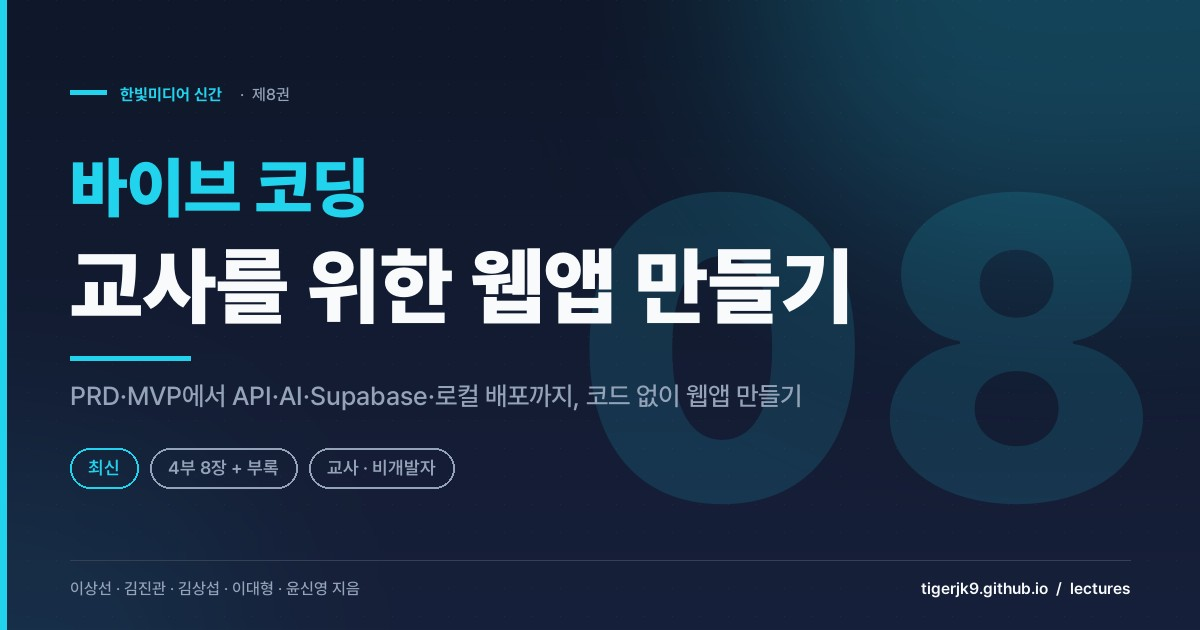
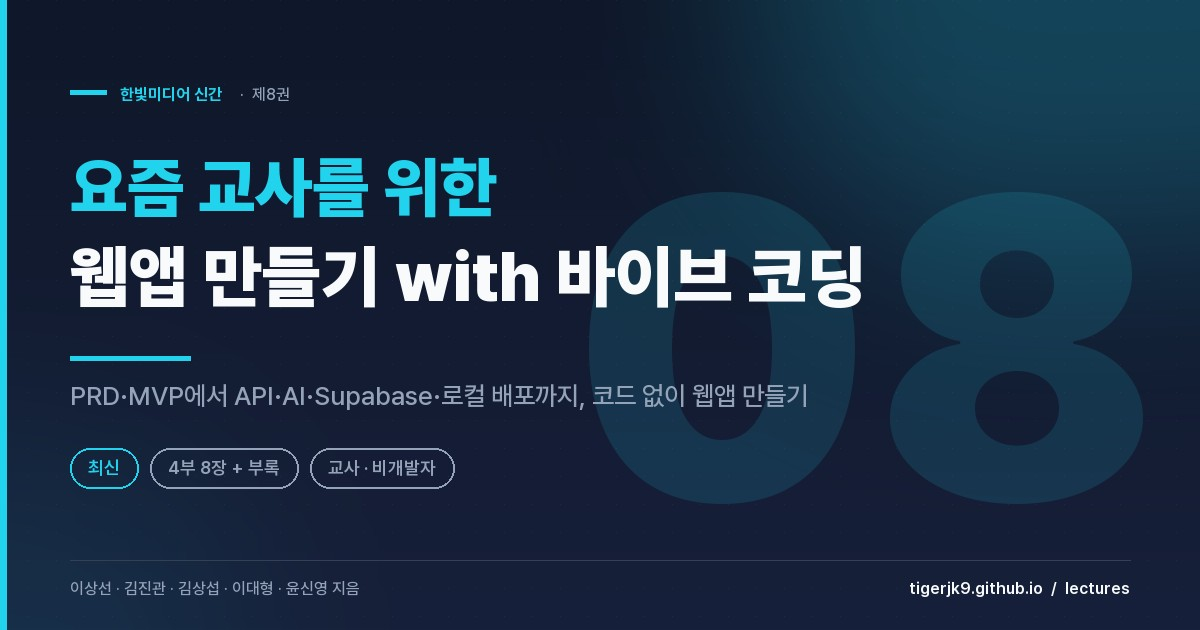
chore(자료실): 8권 확정 서명 반영(요즘 교사를 위한 웹앱 만들기 with 바이브 코딩)
- books.yml·정리본 페이지 제목·CLAUDE.md에서 가제 표기 제거
- 표지 재생성(title_lines 2행 재분할), gen_book_covers.py 폰트 로더 otf/ttf 폴백

Claude-Session: https://claude.ai/code/session_0119HxNwzPvmkNH57gn9no1e

diff --git a/scripts/gen_book_covers.py b/scripts/gen_book_covers.py
@@ -39,7 +39,7 @@ BOOKS = [
         "accent": (34, 211, 238),   # cyan-400
         "eyebrow": "한빛미디어 신간",
         "footer": "이상선 · 김진관 · 김상섭 · 이대형 · 윤신영 지음",
-        "title_lines": ["바이브 코딩", "교사를 위한 웹앱 만들기"],
+        "title_lines": ["요즘 교사를 위한", "웹앱 만들기 with 바이브 코딩"],
         "subtitle": "PRD·MVP에서 API·AI·Supabase·로컬 배포까지, 코드 없이 웹앱 만들기",
         "chips": ["4부 8장 + 부록", "교사 · 비개발자"],
         "status": "최신",
@@ -111,7 +111,11 @@ BOOKS = [
 
 
 def font(weight: str, size: int) -> ImageFont.FreeTypeFont:
-    return ImageFont.truetype(str(FONT_DIR / f"Pretendard-{weight}.otf"), size)
+    for ext in ("otf", "ttf"):
+        path = FONT_DIR / f"Pretendard-{weight}.{ext}"
+        if path.exists():
+            return ImageFont.truetype(str(path), size)
+    raise FileNotFoundError(f"Pretendard-{weight}.(otf|ttf) not found in {FONT_DIR}")
 
 
 def text_width(d: ImageDraw.ImageDraw, s: str, f: ImageFont.FreeTypeFont) -> int:

diff --git a/CLAUDE.md b/CLAUDE.md
@@ -711,7 +711,7 @@ git fetch origin && git rebase origin/main --autostash && git push origin main
 
 **도서 원고 섹션 (2026-07-07, 8권 갱신 2026-07-21)** — `/lectures/` 허브는 "워크숍 강의"(`_data/lectures.yml`) + "도서 원고"(`_data/books.yml`) 2섹션 구성.
 - 도서 1~7권은 `tigerjk9/Book-Publisher`(비공개 레포) 완성 원고 — 전부 라이브 Vercel 웹 도서로 새 탭 연결(웹 도서가 단일 진실 소스, 원고 개정 시 Vercel만 재배포하면 블로그는 무수정. 1권은 teacher-claude-guide.vercel.app — 최초 편입 때 배포 없는 줄 알고 블로그 내 전문 렌더링했다가 사용자가 URL 확인해 줘 제거).
-- **8권(2026-07-21)은 한빛미디어 신간(바이브 코딩, 교사를 위한 웹앱 만들기 · 가제 · 이상선·김진관·김상섭·이대형·윤신영 공저)으로 유일하게 블로그 내부 큐레이션 정리본(`_lectures/vibecode-for-teacher/`)에 연결** — 조판원고 전체 대신 목차·파트별 요약·실습 표·컴패니언 GitHub(lifeofpi-ux/vibecode-for-teacher)만.
+- **8권(2026-07-21)은 한빛미디어 신간(요즘 교사를 위한 웹앱 만들기 with 바이브 코딩 · 서명 확정 2026-08-24 · 이상선·김진관·김상섭·이대형·윤신영 공저)으로 유일하게 블로그 내부 큐레이션 정리본(`_lectures/vibecode-for-teacher/`)에 연결** — 조판원고 전체 대신 목차·파트별 요약·실습 표·컴패니언 GitHub(lifeofpi-ux/vibecode-for-teacher)만.
 - 통일 표지 재생성: `py scripts/gen_book_covers.py [볼륨…]` (인자 없으면 전체, `7 8`처럼 특정 권만 재생성 — 기존 01~06 무변경 유지용. 8권은 per-book `eyebrow`/`footer` 오버라이드로 닷커넥터 대신 한빛미디어 브랜딩. `.fonts/` Pretendard 필요, 출력 `assets/lectures/books/book-0N-cover.jpg`, 권별 액센트 컬러).
 - 상태 배지: 최신(앰버)·이전 판(슬레이트) — **최신은 단일**이라 신간 추가 시 직전 최신 권의 `status: 최신` 제거 + 표지 재생성(8권 추가로 7권 최신 배지 해제).
 - **잠금 카드**(`locked: true`+`locked_payload`)는 대상 URL을 **AES-256-GCM + PBKDF2-HMAC-SHA256(20만회)**로 암호화한 값이다(2026-07-30 기존 반복키 XOR에서 교체 — XOR은 known-plaintext로 비번 없이 URL 복원이 가능했음). payload(base64) 레이아웃 `[ver=2][salt:16][iv:12][ct+tag]`, 카드마다 salt/iv가 랜덤이라 동일 URL도 암호문이 다르고 카드 간 상관관계가 없다. 복호화 JS는 `_pages/lectures.md` — 비번 입력은 window.prompt가 아니라 **커스텀 모달**(`.lec-pw-*`, 스타일 `_sass/_lectures.scss`, 2026-07-30 모바일 비율 문제로 교체. 오류 인라인+shake, ≤600px 상단 배치, 팝업 차단 시 같은 탭 폴백, 잠금 카드 제목 표시 `.lec-pw-name`+등장 애니메이션은 같은 날 PC 폴리시). 재암호화 레시피·표준 절차는 메모리 `project_locked_cards`. 잠금 자료 전부 **하나의 공통 비번**을 공유하며 비번 값은 코드/문서에 남기지 않음(메모리에만). 내부 잠금 페이지(`_lectures/<slug>/`)는 front matter에 `sitemap: false` + `noindex: true`, 허브 카드 썸네일은 슬러그 없는 중립 경로(`/assets/lectures/covers/<hash>.jpg`)를 써서 URL 노출을 줄였다. **단 정적 사이트라 근본은 obscurity** — 콘텐츠 페이지·외부 Vercel 앱 자체엔 인증이 없어 URL이 알려지면 비번 없이 열린다(진짜 비공개는 서버측 게이트 필요).

diff --git a/_lectures/vibecode-for-teacher/index.md b/_lectures/vibecode-for-teacher/index.md
@@ -1,5 +1,5 @@
 ---
-title: "바이브 코딩 신간 — 교사를 위한 웹앱 만들기 (정리본)"
+title: "요즘 교사를 위한 웹앱 만들기 with 바이브 코딩 (정리본)"
 layout: lecture
 permalink: /lectures/vibecode-for-teacher/
 sitemap: false
@@ -13,7 +13,7 @@ header:
   og_image: /assets/lectures/books/book-08-cover.jpg
 ---
 
-한빛미디어에서 출간 예정인 바이브 코딩 신간의 조판원고를 큐레이션한 정리본이다. 이 책은 코드를 직접 쓰지 않고도 교실의 불편함을 웹앱으로 해결하는 과정을, 문제 발견부터 로컬 개발·배포까지 한 흐름으로 담았다. 정식 서명은 아직 확정되지 않았으며, 아래는 4부 8장과 부록의 구성·핵심 내용·실습을 요약한 것이다. 원문 전체는 싣지 않는다.
+한빛미디어에서 출간 예정인 『요즘 교사를 위한 웹앱 만들기 with 바이브 코딩』의 조판원고를 큐레이션한 정리본이다. 이 책은 코드를 직접 쓰지 않고도 교실의 불편함을 웹앱으로 해결하는 과정을, 문제 발견부터 로컬 개발·배포까지 한 흐름으로 담았다. 아래는 4부 8장과 부록의 구성·핵심 내용·실습을 요약한 것이다. 원문 전체는 싣지 않는다.
 
 ## 도서 개요
 
